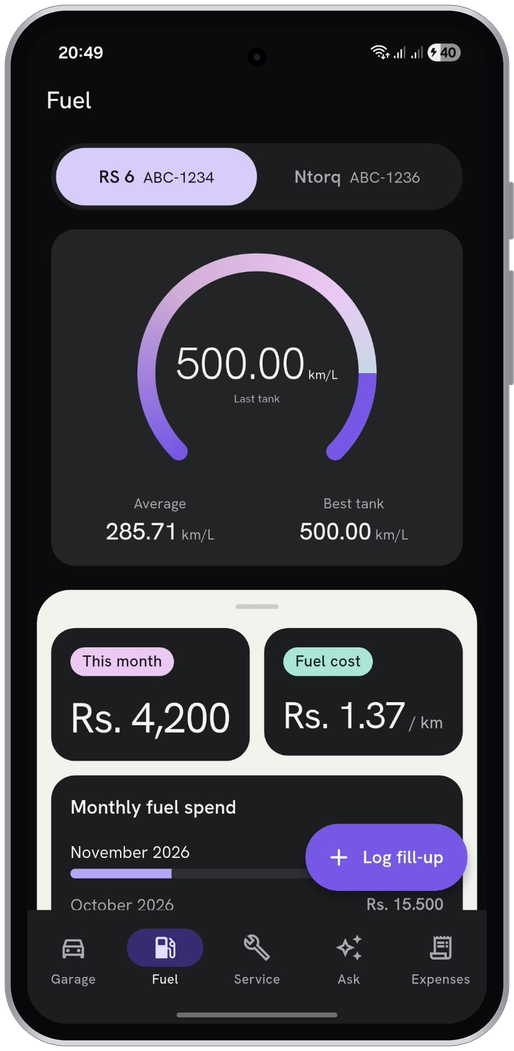
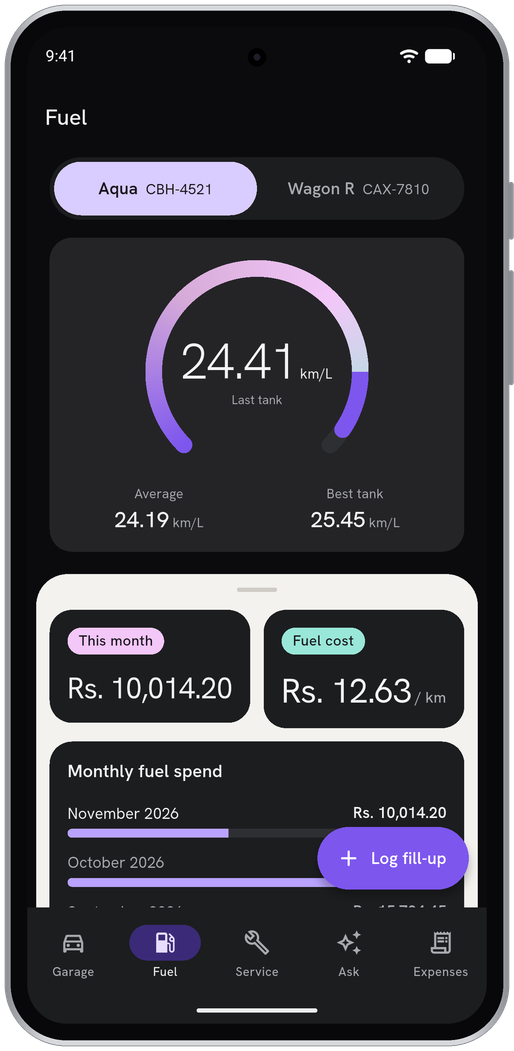
docs: replace the Fuel screenshots that showed test data
The Android and iPhone Fuel screenshots showed 500 and 3,220 km/L from
test fill-ups, which read as a bug. Android gets a new capture with
realistic sample data at the phone's screen size, so its frame matches
the other tiles. No real iPhone capture is available yet, so the iPhone
Fuel tile is removed and the remaining eight are re-balanced.

diff --git a/README.md b/README.md
@@ -84,22 +84,21 @@ Drivon keeps every fill-up, service, expense, document and renewal for your vehi
 <table align="center">
   <tr>
     <td align="center"><img src="docs/screenshots/ios/01-garage.png" alt="Drivon Garage screen on an iPhone" width="220"><br><b>Garage</b><br><sub>Your vehicles at a glance</sub></td>
-    <td align="center"><img src="docs/screenshots/ios/02-fuel.png" alt="Drivon Fuel screen on an iPhone" width="220"><br><b>Fuel</b><br><sub>km/L, fuel spend and fill-ups</sub></td>
     <td align="center"><img src="docs/screenshots/ios/03-service.png" alt="Drivon Service screen on an iPhone" width="220"><br><b>Service</b><br><sub>What's due next and the history</sub></td>
+    <td align="center"><img src="docs/screenshots/ios/04-ask.png" alt="Drivon Ask My Vehicle screen on an iPhone" width="220"><br><b>Ask My Vehicle</b><br><sub>Answers from your own data</sub></td>
   </tr>
 </table>
 
 <table align="center">
   <tr>
-    <td align="center"><img src="docs/screenshots/ios/04-ask.png" alt="Drivon Ask My Vehicle screen on an iPhone" width="220"><br><b>Ask My Vehicle</b><br><sub>Answers from your own data</sub></td>
     <td align="center"><img src="docs/screenshots/ios/05-expenses.png" alt="Drivon Expenses screen on an iPhone" width="220"><br><b>Expenses</b><br><sub>Spending by category and month</sub></td>
     <td align="center"><img src="docs/screenshots/ios/06-insights.png" alt="Drivon Insights screen on an iPhone" width="220"><br><b>Insights</b><br><sub>Running cost per km</sub></td>
+    <td align="center"><img src="docs/screenshots/ios/07-documents.png" alt="Drivon Documents screen on an iPhone" width="220"><br><b>Documents</b><br><sub>Insurance, licence, receipts</sub></td>
   </tr>
 </table>
 
 <table align="center">
   <tr>
-    <td align="center"><img src="docs/screenshots/ios/07-documents.png" alt="Drivon Documents screen on an iPhone" width="220"><br><b>Documents</b><br><sub>Insurance, licence, receipts</sub></td>
     <td align="center"><img src="docs/screenshots/ios/08-reminders.png" alt="Drivon Reminders screen on an iPhone" width="220"><br><b>Reminders</b><br><sub>By date or by mileage</sub></td>
     <td align="center"><img src="docs/screenshots/ios/09-profile.png" alt="Drivon Profile screen on an iPhone" width="220"><br><b>Profile</b><br><sub>Your account details</sub></td>
   </tr>
